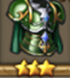
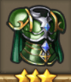
chore: 黑装备的套装里增加6系及贵族套
- 在 someTrick.py 中添加了火系、水系、土系、气系、光系、暗系和贵族套的装备配置
- 更新了部分装备图片，为其重命名以匹配新的装备配置
- 删除了一些重复的装备图片

diff --git a/agent/action/divineForgeLand/someTrick.py b/agent/action/divineForgeLand/someTrick.py
@@ -93,6 +93,53 @@ class GoDownstairsTrick_Test(CustomAction):
                 "学徒鞋子": "equipments/1level/学徒鞋子.png",
                 "学徒戒指": "equipments/1level/学徒戒指.png",
             },
+            "火系": {
+                "火术士项链": "equipments/1level/火术士项链.png",
+                "灼眼者面罩": "equipments/2level/",
+                "火蜥蜴腕轮": "equipments/3level/火蜥蜴腕轮.png",
+                "毁灭者石板": "equipments/4level/毁灭者石板.png",
+                "末日指轮": "equipments/5level/末日指轮.png",
+            },
+            "水系": {
+                "水精灵披风": "equipments/1level/水精灵披风.png",
+                "冰霜之瓶": "equipments/2level/冰霜之瓶.png",
+                "海妖之眼": "equipments/3level/海妖之眼.png",
+                "泉水项链": "equipments/4level/泉水项链.png",
+                "曙光战甲": "equipments/5level/曙光战甲.png",
+            },
+            "土系": {
+                "花岗岩手套": "equipments/1level/花岗岩手套.png",
+                "黑曜石铠甲": "equipments/2level/黑曜石铠甲.png",
+                "荆棘之球": "equipments/3level/荆棘之球.png",
+                "重力之源": "equipments/4level/重力之源.png",
+                "土元素之靴": "equipments/5level/土元素之靴.png",
+            },
+            "气系": {
+                "闪电之靴": "equipments/1level/闪电之靴.png",
+                "电弧束带": "equipments/2level/电弧束带.png",
+                "蓝宝石胸甲": "equipments/3level/蓝宝石胸甲.png",
+                "泰坦之盔": "equipments/4level/泰坦之盔.png",
+                "时光沙漏": "equipments/5level/时光沙漏.png",
+            },
+            "光系": {
+                "白珍珠": "equipments/1level/白珍珠.png",
+                "神官披肩": "equipments/2level/神官披肩.png",
+                "信仰之戒": "equipments/3level/信仰之戒.png",
+                "圣裁官手套": "equipments/4level/圣裁官手套.png",
+                "教皇腰带": "equipments/5level/教皇腰带.png",
+            },
+            "暗系": {
+                "黑珍珠": "equipments/1level/黑珍珠.png",
+                "幽魂靴": "equipments/2level/幽魂靴.png",
+                "黑巫术腰带": "equipments/3level/黑巫术腰带.png",
+                "巫毒斗篷": "equipments/4level/巫毒斗篷.png",
+                "杀戮护符": "equipments/5level/杀戮护符.png",
+            },
+            "贵族套": {
+                "贵族丝带": "equipments/1level/贵族丝带.png",
+                "礼仪戒指": "equipments/2level/礼仪戒指.png",
+                "天鹅绒斗篷": "equipments/3level/天鹅绒斗篷.png",
+            },
         }
         # 这里检查套装
         logger.info(f"黑装备-{equipment} 检查是否有目标装备")
